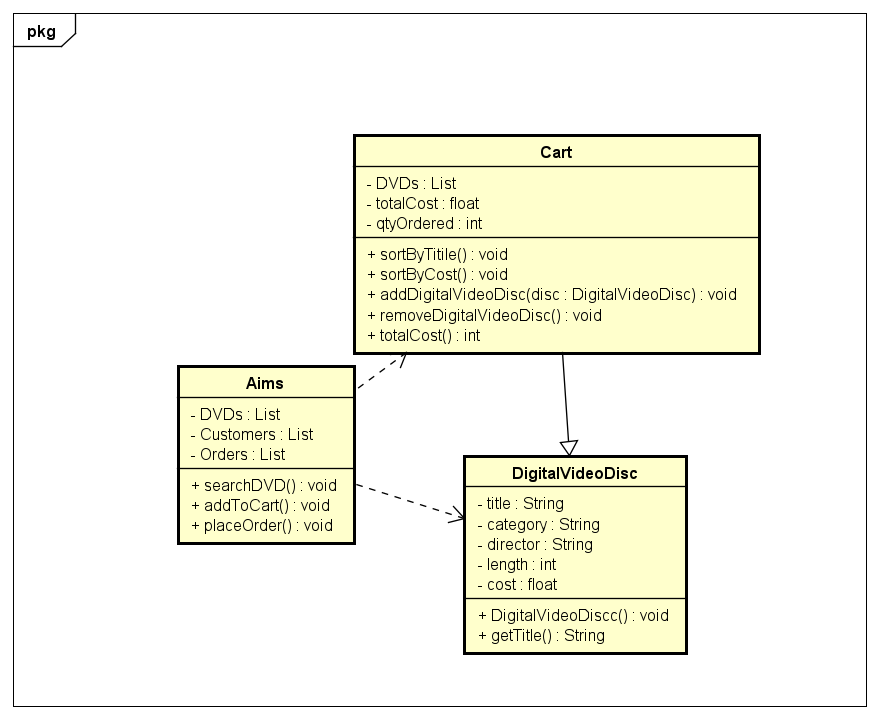
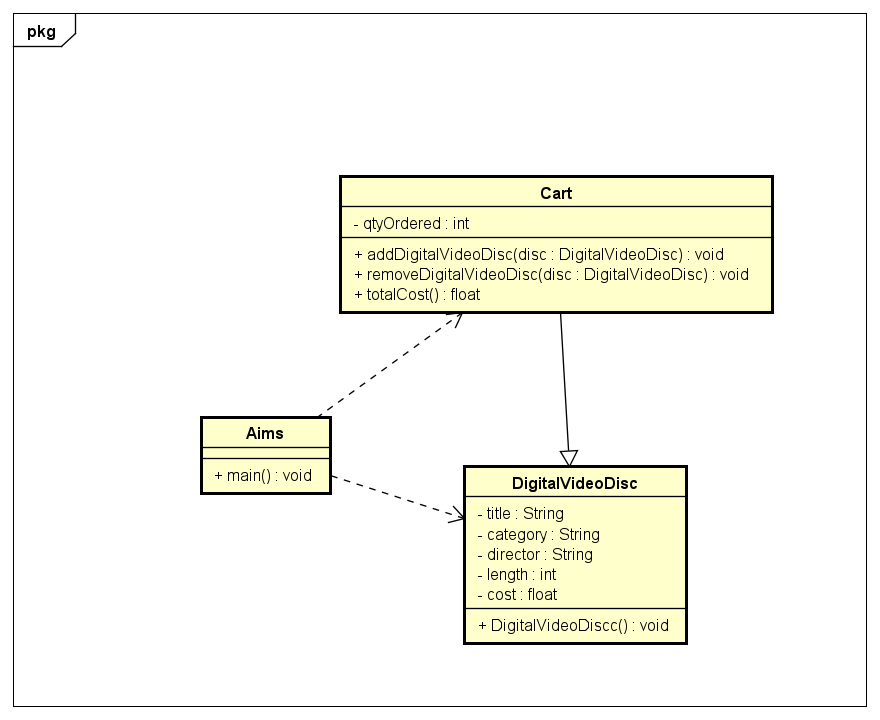
Message

Changed region(s): [[0.1841, 0.1833, 0.8898, 0.7639], [0.5216, 0.6111, 0.7977, 0.9167]]

diff --git a/Lab02/AimsProject/src/aims/Cart.java b/Lab02/AimsProject/src/aims/Cart.java
@@ -1,11 +1,54 @@
 package aims;
 
 public class Cart {
-
-	public static final int MAX_NUMBERS_ORDERED = 20;
-	private DigitalVideoDisc itemsOrdered[] =
-			new DigitalVideoDisc[MAX_NUMBERS_ORDERED];
-
-}
-
+	public static final int MAX_NUMBER_ORDERED = 20;
+	private DigitalVideoDisc items_order[] = new DigitalVideoDisc[MAX_NUMBER_ORDERED];
+	private int currentorder=0; // this is qrtOrdered
+	public void addDigitalVideoDisc(DigitalVideoDisc dics) {
+		if (currentorder==MAX_NUMBER_ORDERED) {
+			System.out.println("Cart has been fulled");
+		}
+		else {
+			items_order[currentorder]=dics;
+			currentorder++;
+			System.out.println("Dics have been added!");
+			if (currentorder>=18) {
+				System.out.println("Warning: Cart is almost full");
+			}
+		}
+	}
+	public void removeDigitalVideoDisc(DigitalVideoDisc dics) {
+		boolean Turnon= false;
+		int update=currentorder;
+		if (currentorder==0) {
+			System.out.println("Cart is Empty");
+		}
+		else {
+			for (int i=0;i<currentorder;i++) {
+				if (items_order[i].equals(dics)) {
+					Turnon=true;
+					update-=1;
+				}
+				if (Turnon) {
+					if (i<19) {
+						items_order[i]=items_order[i+1];
+					}
+				}
+			}
+			if(!Turnon) {
+				System.out.println("That Disc is not exist");
+			}
+			else {
+				System.out.println("You have just remove dics");
+			}
+		}
+		currentorder=update;
+	}
+	public float totalCost() {
+		float result=0;
+		for (int i=0;i<currentorder;i++) {
+			result+=items_order[i].getCost();
+		}
+		return result;
+	}
 }

diff --git a/Lab02/AimsProject/src/aims/DigitalVideoDisc.java b/Lab02/AimsProject/src/aims/DigitalVideoDisc.java
@@ -1,17 +1,12 @@
 package aims;
 
+
 public class DigitalVideoDisc {
-    private int id;
     private String title;
     private String category;
     private String director;
-    private int length;
+    private int lenght;
     private float cost;
-
-
-    public int getId() {
-        return id;
-    }
     public String getTitle() {
         return title;
     }
@@ -21,8 +16,8 @@ public class DigitalVideoDisc {
     public String getDirector() {
         return director;
     }
-    public int getLength() {
-        return length;
+    public int getLenght() {
+        return lenght;
     }
     public float getCost() {
         return cost;
@@ -31,6 +26,28 @@ public class DigitalVideoDisc {
         super();
         this.title = title;
     }
+    public DigitalVideoDisc(String title, String category, float cost) {
+        super();
+        this.title = title;
+        this.category = category;
+        this.cost = cost;
+    }
+    public DigitalVideoDisc(String title, String category, String director, float cost) {
+        super();
+        this.title = title;
+        this.category = category;
+        this.director = director;
+        this.cost = cost;
+    }
+    public DigitalVideoDisc(String title, String category, String director, int lenght, float cost) {
+        super();
+        this.title = title;
+        this.category = category;
+        this.director = director;
+        this.lenght = lenght;
+        this.cost = cost;
+    }
 
 
 }
+

diff --git a/Lab02/AimsProject/src/aims/Aims.java b/Lab02/AimsProject/src/aims/Aims.java
@@ -1,18 +1,28 @@
 package aims;
 
+
 public class Aims {
 
 	public static void main(String[] args) {
-		//Create a new cart
 		Cart anOrder = new Cart();
-		
-		//Create new dvd objects and add them to the cart
-		DigitalVideoDisc dvd1 = new DigitalVideoDisc("The Lion King", 
-				"Animation", "Roger Allers", 87, 19.95f);
-		
-		anOrder.addDigitalVideoDisc(dvd1);
-				
 
+		DigitalVideoDisc dvd1= new DigitalVideoDisc("The Lion King","Animation","Roger Allers",87,19.95f);
+		anOrder.add_DigitalVideoDisc(dvd1);
+
+		DigitalVideoDisc dvd2= new DigitalVideoDisc("Star Wars","Science Fiction","George Lucas",87,24.95f);
+		anOrder.add_DigitalVideoDisc(dvd2);
+
+		DigitalVideoDisc dvd3= new DigitalVideoDisc("Aladin","Ainmation",18.99f);
+		anOrder.addDigitalVideoDisc(dvd3);
+
+		System.out.println("The Cost is: ");
+		System.out.println(anOrder.totalCost());
+
+		anOrder.removeDigitalVideoDisc(dvd3);
+
+		System.out.println("The remain cost is: ");
+		System.out.println(anOrder.totalCost());
 	}
 
 }
+
